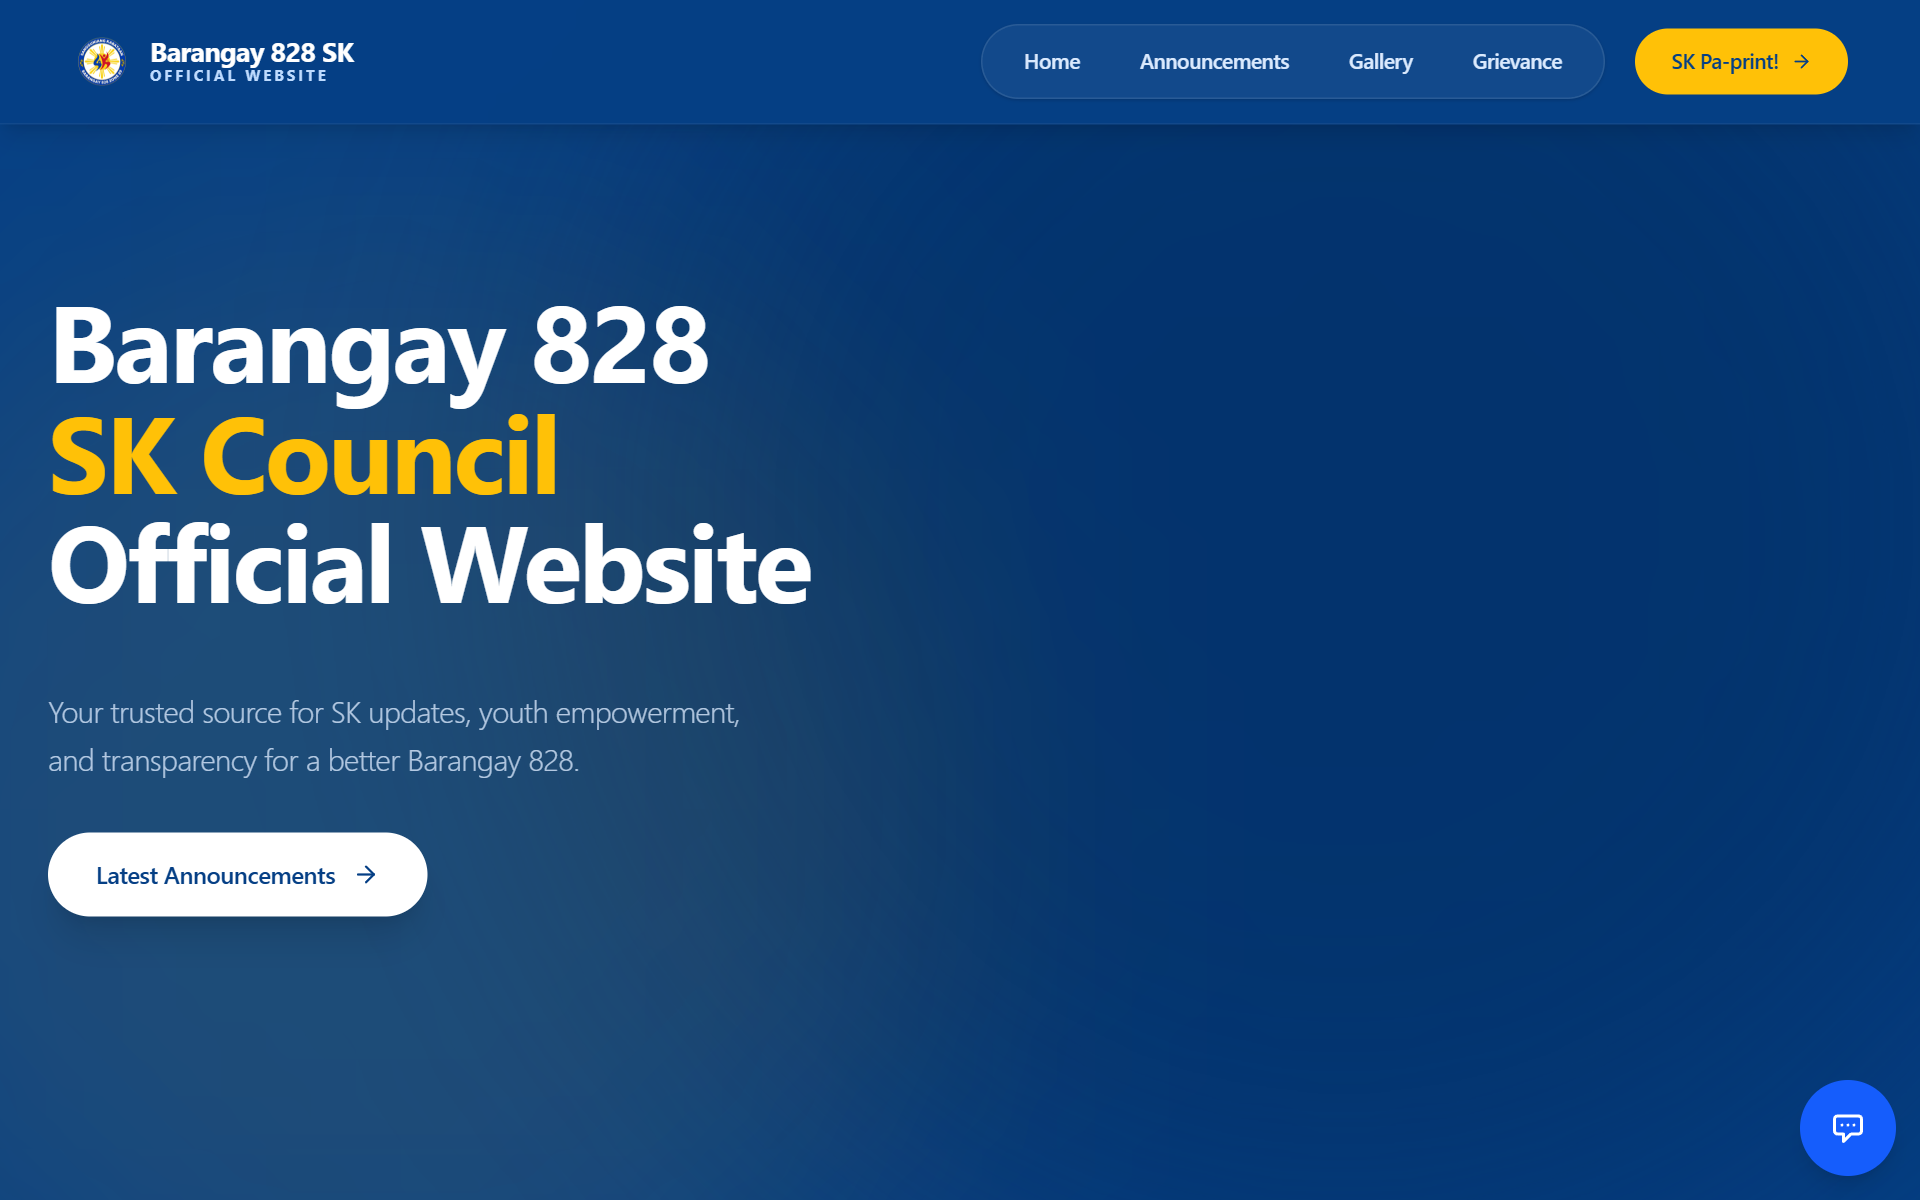
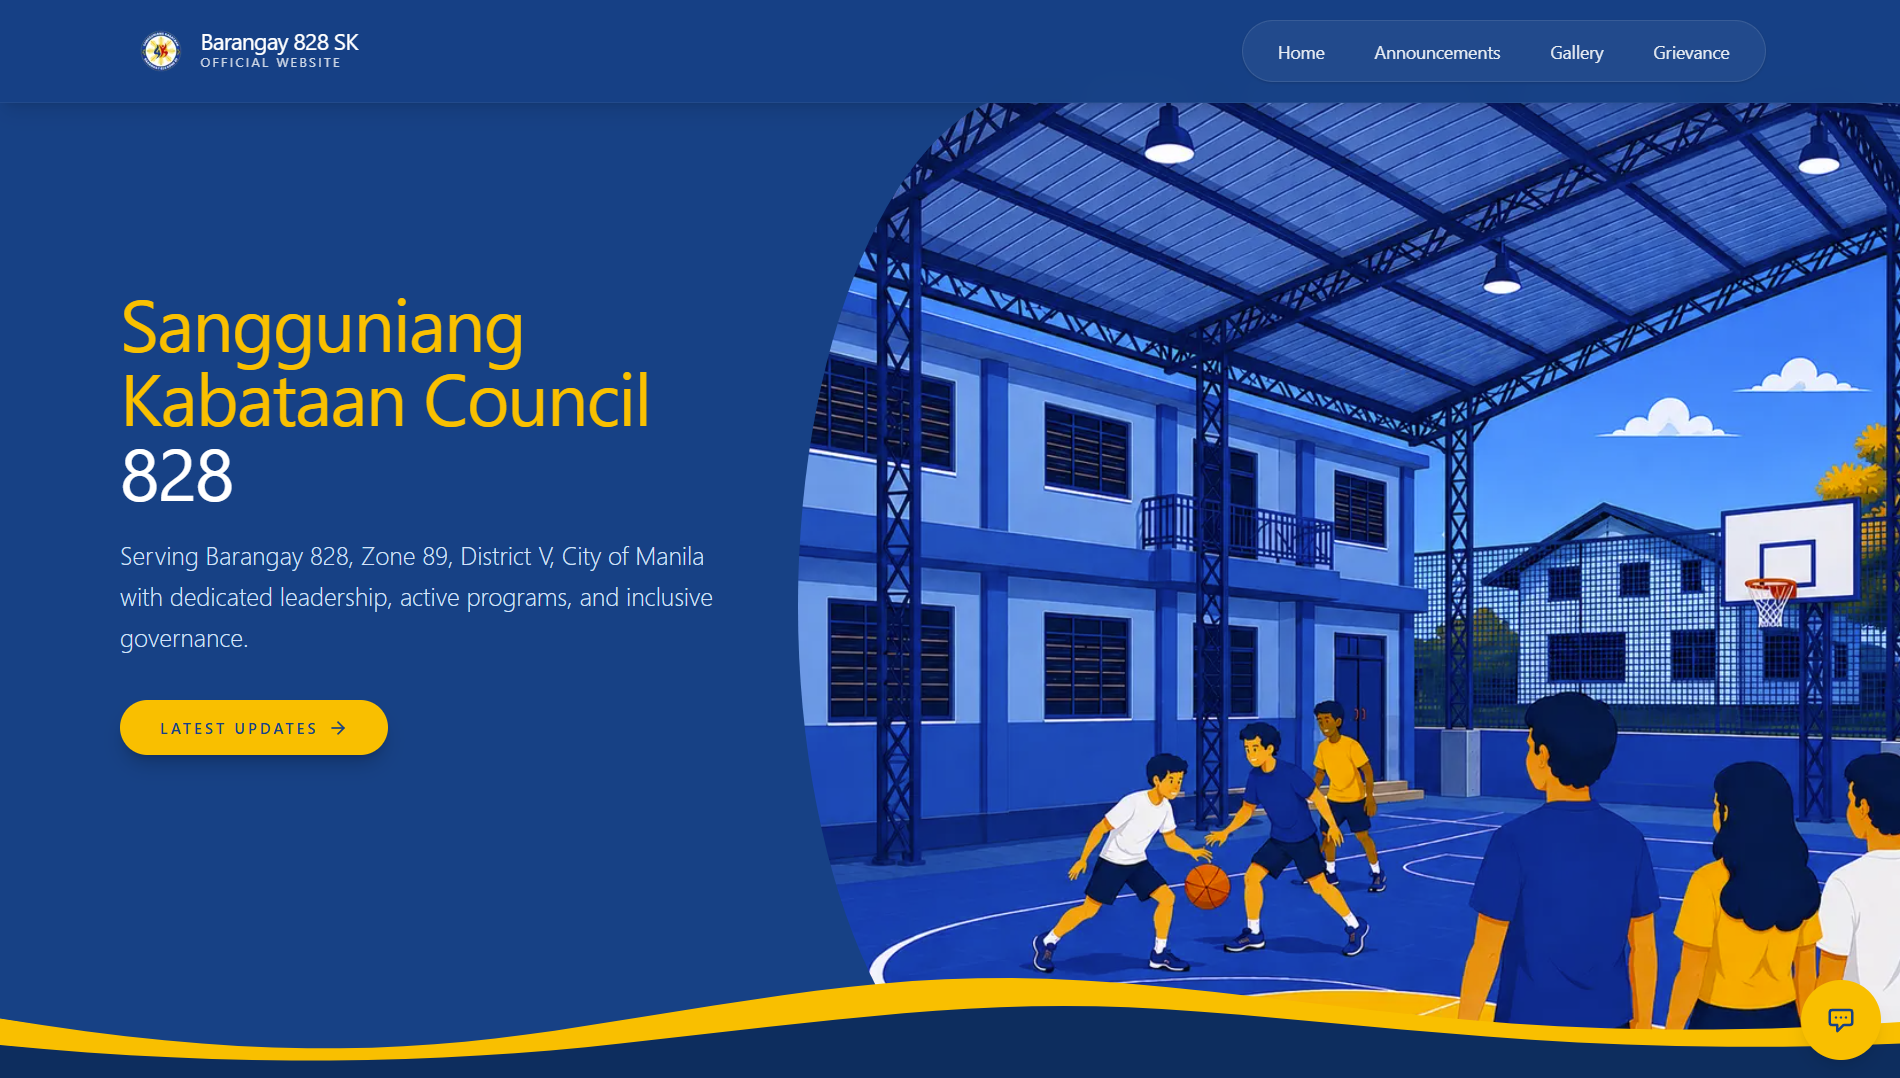
feat: initialize portfolio project with tailwind configuration, custom layouts, and interactive components

diff --git a/app/page.tsx b/app/page.tsx
@@ -530,9 +530,17 @@ const Portfolio = () => {
           </Reveal>
 
           <Reveal className="delay-150">
-            <h1 className="text-4xl md:text-7xl font-bold leading-[1.05] tracking-tight mb-10 max-w-5xl">
-              I build full-stack, AI-powered products that real people{' '}
-              <span className={`text-transparent bg-clip-text bg-gradient-to-r ${currentTheme.gradient}`}>
+            <h1 className="text-4xl md:text-7xl font-light leading-[1.15] tracking-tight mb-10 max-w-5xl">
+              I build{' '}
+              <span className="font-serif italic text-cyan-600 dark:text-cyan-400 font-normal">
+                full-stack
+              </span>
+              ,{' '}
+              <span className="font-mono text-[0.85em] font-normal tracking-tighter opacity-90 px-1.5 py-0.5 rounded-lg bg-slate-100 dark:bg-white/5 border border-slate-200/50 dark:border-white/10">
+                AI-powered
+              </span>{' '}
+              products that real people{' '}
+              <span className={`font-serif italic text-transparent bg-clip-text bg-gradient-to-r ${currentTheme.gradient} font-normal`}>
                 actually use.
               </span>
             </h1>

diff --git a/app/layout.tsx b/app/layout.tsx
@@ -1,5 +1,5 @@
 import type { Metadata } from "next";
-import { Geist, Geist_Mono } from "next/font/google";
+import { Geist, Geist_Mono, Newsreader } from "next/font/google";
 import "./globals.css";
 
 const geistSans = Geist({
@@ -10,6 +10,12 @@ const geistSans = Geist({
 const geistMono = Geist_Mono({
   variable: "--font-geist-mono",
   subsets: ["latin"],
+});
+
+const newsreader = Newsreader({
+  variable: "--font-serif",
+  subsets: ["latin"],
+  style: ["italic", "normal"],
 });
 
 export const metadata: Metadata = {
@@ -25,7 +31,7 @@ export default function RootLayout({
   return (
     <html lang="en">
       <body
-        className={`${geistSans.variable} ${geistMono.variable} antialiased`}
+        className={`${geistSans.variable} ${geistMono.variable} ${newsreader.variable} antialiased`}
       >
         {children}
       </body>

diff --git a/app/globals.css b/app/globals.css
@@ -8,6 +8,7 @@
   --color-foreground: var(--foreground);
   --font-sans: var(--font-geist-sans);
   --font-mono: var(--font-geist-mono);
+  --font-serif: var(--font-serif);
   --color-sidebar-ring: var(--sidebar-ring);
   --color-sidebar-border: var(--sidebar-border);
   --color-sidebar-accent-foreground: var(--sidebar-accent-foreground);
